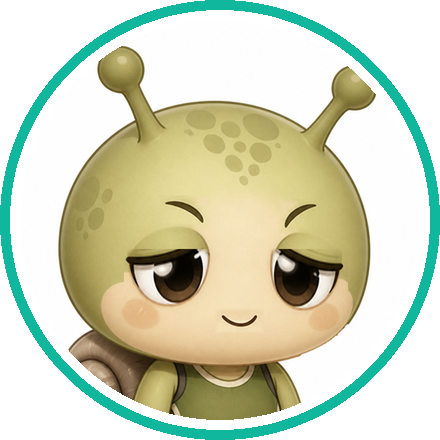
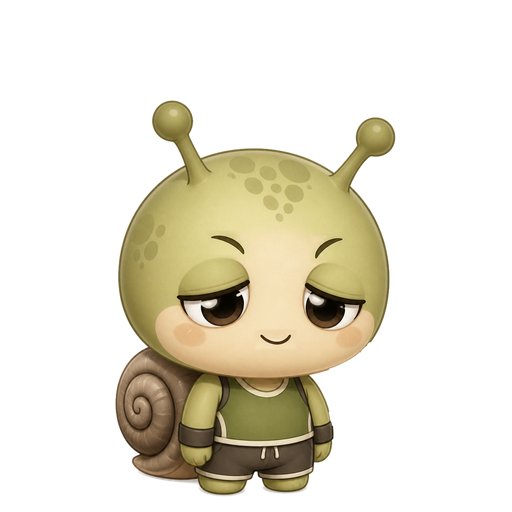
달팽이봇 표정 4장을 워킹 챌린지의 웃는 달팽이로 통일 (흰 원 바탕 제거)
기본·듣는 중(소리 물결)·기쁨(반짝임)은 웃는 달팽이에 표시를 얹고, 실망은 한숨 쉬는 달팽이. tool/gen_snailbot_moods.py로 재생성.
홈의 달팽이봇 버튼은 그림 여백만큼 키워 원 안에 꽉 차게.

Claude-Session: https://claude.ai/code/session_01Sv91Nd6H3FACTXdNccDL5Q

diff --git a/lib/features/mini_bot/mini_bot_dock.dart b/lib/features/mini_bot/mini_bot_dock.dart
@@ -272,7 +272,7 @@ class _MiniBotDockState extends State<MiniBotDock> {
                         onPanStart: _onPanStart,
                         onPanUpdate: _onPanUpdate,
                         onPanEnd: _onPanEnd,
-                        child: const DecoratedBox(
+                        child: DecoratedBox(
                           decoration: BoxDecoration(
                             shape: BoxShape.circle,
                             color: AppColors.nightCard,
@@ -288,7 +288,12 @@ class _MiniBotDockState extends State<MiniBotDock> {
                             ],
                           ),
                           child: ClipOval(
-                            child: SnailBotFace(size: MiniBotDockMath.size),
+                            // 그림 둘레 여백이 있어서 원 안에 꽉 차게 키운다.
+                            child: Transform.scale(
+                              scale: 1.4,
+                              alignment: const Alignment(0, 0.35),
+                              child: SnailBotFace(size: MiniBotDockMath.size),
+                            ),
                           ),
                         ),
                       ),

diff --git a/lib/features/mini_bot/snail_bot_face.dart b/lib/features/mini_bot/snail_bot_face.dart
@@ -2,8 +2,8 @@ import 'package:flutter/material.dart';
 
 /// 달팽이봇 얼굴. 같은 그림을 버튼과 대화 화면 머리글이 함께 쓴다.
 enum SnailBotMood {
-  /// 기본. 워킹 챌린지에서 쓰는 웃는 달팽이(바탕 투명).
-  smiling('assets/images/characters/chibi_snail_smiling.png'),
+  /// 기본. 워킹 챌린지의 웃는 달팽이. 표정 4장은 tool/gen_snailbot_moods.py로 만든다.
+  smiling('assets/images/snailbot/face_smiling.png'),
 
   /// 마이크로 듣는 중.
   listening('assets/images/snailbot/face_listening.png'),

diff --git a/tool/gen_snailbot_moods.py b/tool/gen_snailbot_moods.py
@@ -1,0 +1,97 @@
+#!/usr/bin/env python3
+"""달팽이봇 표정 4장을 워킹 챌린지의 웃는 달팽이로 만든다.
+
+기본·듣는 중·기쁨은 같은 웃는 달팽이에 표시만 다르게 얹고(소리 물결, 반짝임),
+실망은 한숨 쉬는 달팽이 그림을 쓴다. 모두 투명 바탕, 오른쪽을 본다.
+실행: python3 tool/gen_snailbot_moods.py   (저장소 맨 위에서)
+"""
+import math
+from PIL import Image, ImageDraw
+
+S = 4  # 안티앨리어싱용 배율
+SIZE = 512
+LIME = (212, 255, 74, 255)
+GOLD = (255, 207, 74, 255)
+PINK = (255, 134, 160, 255)
+
+
+def load(name: str) -> Image.Image:
+    img = Image.open(f"assets/images/characters/{name}.png").convert("RGBA")
+    box = img.getbbox()
+    img = img.crop(box)
+    scale = (SIZE * 0.78) / max(img.size)
+    return img.resize((round(img.width * scale), round(img.height * scale)), Image.LANCZOS)
+
+
+def stage(snail: Image.Image) -> Image.Image:
+    canvas = Image.new("RGBA", (SIZE, SIZE), (255, 255, 255, 0))
+    x = (SIZE - snail.width) // 2
+    y = SIZE - snail.height - 14
+    canvas.alpha_composite(snail, (x, y))
+    return canvas
+
+
+def overlay() -> tuple[Image.Image, ImageDraw.ImageDraw]:
+    layer = Image.new("RGBA", (SIZE * S, SIZE * S), (0, 0, 0, 0))
+    return layer, ImageDraw.Draw(layer)
+
+
+def finish(base: Image.Image, layer: Image.Image) -> Image.Image:
+    layer = layer.resize((SIZE, SIZE), Image.LANCZOS)
+    base.alpha_composite(layer)
+    return base
+
+
+def star(draw, cx, cy, r, color):
+    pts = []
+    for i in range(8):
+        ang = math.pi / 4 * i - math.pi / 2
+        rad = r if i % 2 == 0 else r * 0.28
+        pts.append((cx + rad * math.cos(ang), cy + rad * math.sin(ang)))
+    draw.polygon(pts, fill=color)
+
+
+def heart(draw, cx, cy, r, color):
+    draw.ellipse([cx - r, cy - r, cx, cy], fill=color)
+    draw.ellipse([cx, cy - r, cx + r, cy], fill=color)
+    draw.polygon([(cx - r, cy - r * 0.35), (cx + r, cy - r * 0.35), (cx, cy + r * 1.05)], fill=color)
+
+
+def listening(snail: Image.Image) -> Image.Image:
+    base = stage(snail)
+    layer, d = overlay()
+    # 얼굴 오른쪽에서 퍼지는 소리 물결 세 겹
+    cx, cy = (SIZE * 0.66) * S, (SIZE * 0.40) * S
+    for k, r in enumerate((80, 110, 140)):
+        w = (13 - k * 2) * S
+        box = [cx - r * S, cy - r * S, cx + r * S, cy + r * S]
+        d.arc(box, -45, 45, fill=LIME, width=w)
+    return finish(base, layer)
+
+
+def joy(snail: Image.Image) -> Image.Image:
+    base = stage(snail)
+    layer, d = overlay()
+    star(d, SIZE * 0.86 * S, SIZE * 0.22 * S, 52 * S, GOLD)
+    star(d, SIZE * 0.12 * S, SIZE * 0.30 * S, 38 * S, LIME)
+    star(d, SIZE * 0.93 * S, SIZE * 0.52 * S, 26 * S, LIME)
+    heart(d, SIZE * 0.08 * S, SIZE * 0.58 * S, 22 * S, PINK)
+    return finish(base, layer)
+
+
+def main() -> None:
+    smiling = load("chibi_snail_smiling")
+    sad = load("chibi_snail_disappointed")
+    out = {
+        "face_smiling": stage(smiling),
+        "face_listening": listening(smiling),
+        "face_joy": joy(smiling),
+        "face_disappointed": stage(sad),
+    }
+    for name, img in out.items():
+        img.save(f"assets/images/snailbot/{name}.png")
+    print("done")
+
+
+if __name__ == "__main__":
+    main()
